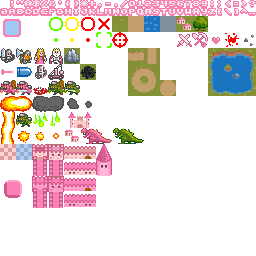
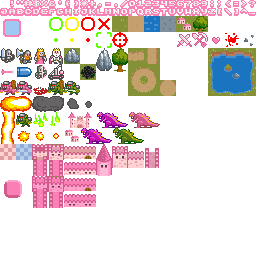
feat: obj layer, tall sprites and storyboxes

Changed region(s): [[0.3125, 0.4375, 0.625, 0.5625], [0.4375, 0.5625, 0.625, 0.6562], [0.375, 0.1875, 0.5, 0.2812]]

diff --git a/src/main.ts b/src/main.ts
@@ -1,7 +1,13 @@
 import "./style.css";
 import { createCanvas, gameLoop, loadImage } from "./engine/gl-util.ts";
 import { SpriteRenderer } from "./engine/SpriteRenderer.ts";
-import { drawPanel, drawSprite2, drawText, drawTextbox } from "./engine/renderUtils.ts";
+import {
+  drawPanel,
+  drawSprite2,
+  drawSprite3,
+  drawText,
+  drawTextbox,
+} from "./engine/renderUtils.ts";
 import { TileMap } from "./engine/tilemap.ts";
 import { Game } from "./game/game.ts";
 import { findSprite, generateLevel } from "./game/levelGenerator.ts";
@@ -16,6 +22,7 @@ import { moveSystem } from "./game/moveSystem.ts";
 import { enemySystem } from "./game/enemySystem.ts";
 import { spriteNames } from "./game/sprites.ts";
 import { AttackCommand, MineCommand, ShootCommand } from "./game/commands.ts";
+import { story } from "./game/story.ts";
 
 const pixelSize = 4;
 const canvas = createCanvas(1920, 1080);
@@ -38,20 +45,19 @@ canvas.addEventListener("click", () => {
 });
 
 const tilemap = new TileMap(30, 17);
-generateLevel(tilemap);
+const objmqp = new TileMap(30, 17);
+generateLevel(tilemap, objmqp);
 game.tilemap = tilemap;
+game.objmap = objmqp;
 
 game.init();
+game.messageBox = story[0];
 
 function update() {
   game.tick++;
   inputSystem(game);
   enemySystem(game);
   moveSystem(game);
-
-  if (game.turn >= 0) {
-    game.messageBox = story[game.turn++];
-  }
 }
 
 function render() {
@@ -60,6 +66,7 @@ function render() {
   for (let y = 0; y < 17; y++) {
     for (let x = 6; x < 30; x++) {
       drawSprite2(renderer, x * 16, y * 16, tilemap.tiles[x + y * tilemap.width]);
+      drawSprite3(renderer, x * 16, y * 16, objmqp.tiles[x + y * tilemap.width]);
     }
   }
 
@@ -273,17 +280,13 @@ function render() {
     drawTextbox(renderer, 16 * 8, 16 * 8, 40, game.messageBox);
   }
 
+  drawSprite3(renderer, 16 * 8, 16 * 4, spriteNames.castle);
+  drawSprite3(renderer, 16 * 9, 16 * 4, spriteNames.castle + 1);
+  drawSprite3(renderer, 16 * 8, 16 * 5, spriteNames.castle + 2);
+  drawSprite3(renderer, 16 * 8, 16 * 6, spriteNames.castle);
+
   //--- end nuke
   renderer.render();
 }
 
 gameLoop(update, render);
-
-const story = [
-  "In the 13th century, a tragedy fell upon the kingdom of Barbenheim. Their beloved princess suddenly dissapeared. Rumors say that she was kidnapped by a dragon and taken to his lair in the mountains.",
-  "Our alchemist needs you to bring him som rare ore from the mines. You will recognize it by its green glow. He will use it to craft a powerful weapon that will help you defeat the dragon.",
-  "A goat farmer has lost a good deal of his heard. He suspects that the dragon has been feeding on his goats. He will reward you if you bring him back some goat meat.",
-  "The dragon has been terrorizing the kingdom for too long. It is time to put an end to this. Find the princess and bring her back to the castle.",
-  "The weapon is ready. It is time to face the dragon.",
-  "Much to our surprise, the princess refuses to return to the castle. She fled to the mountains to get some rest from the constant courtship from the princes of the neighboring kingdoms. She is not in any danger and will return to the castle when she is ready.",
-];

diff --git a/src/game/story.ts b/src/game/story.ts
@@ -1,0 +1,8 @@
+export const story = [
+  "In the 13th century, a tragedy fell upon the kingdom of Barbenheim. Their beloved princess suddenly dissapeared. Rumors say that she was kidnapped by a dragon and taken to his lair in the mountains.",
+  "Our alchemist needs you to bring him som rare ore from the mines. You will recognize it by its green glow. He will use it to craft a powerful weapon that will help you defeat the dragon.",
+  "A goat farmer has lost a good deal of his heard. He suspects that the dragon has been feeding on his goats. He will reward you if you bring him back some goat meat.",
+  "The dragon has been terrorizing the kingdom for too long. It is time to put an end to this. Find the princess and bring her back to the castle.",
+  "The weapon is ready. It is time to face the dragon.",
+  "Much to our surprise, the princess refuses to return to the castle. She fled to the mountains to get some rest from the constant courtship from the princes of the neighboring kingdoms. She is not in any danger and will return to the castle when she is ready.",
+];

diff --git a/src/game/levelGenerator.ts b/src/game/levelGenerator.ts
@@ -51,25 +51,26 @@ function createTerrain(tilemap: TileMap, _rnd: Random) {
   }
 }
 
-export function generateLevel(tilemap: TileMap) {
+export function generateLevel(tilemap: TileMap, objmap: TileMap) {
   const rnd = new Random(2);
   fillMap(tilemap, spriteNames.grass);
+  fillMap(objmap, -1);
   createTerrain(tilemap, rnd);
 
   for (let i = 0; i < 30; i++) {
     const x = rnd.inext(tilemap.width);
     const y = rnd.inext(tilemap.height);
     if (i % 2 === 0) {
-      tilemap.setTile(x | 0, y | 0, spriteNames.mountain);
+      objmap.setTile(x | 0, y | 0, spriteNames.mountain);
     } else {
-      tilemap.setTile(x | 0, y | 0, spriteNames.tree);
+      objmap.setTile(x | 0, y | 0, spriteNames.tree);
     }
   }
 
   for (let i = 0; i < 7; i++) {
     const x = rnd.inext(tilemap.width);
     const y = rnd.inext(tilemap.height);
-    tilemap.setTile(x | 0, y | 0, spriteNames.tower);
+    objmap.setTile(x | 0, y | 0, spriteNames.castle);
   }
 
   createRiver(tilemap, rnd);

diff --git a/src/engine/renderUtils.ts b/src/engine/renderUtils.ts
@@ -127,3 +127,18 @@ export function drawSprite2(
   const sx = sprite % 16;
   renderer.drawSprite(x, y, sx * 16, sy * 16, 16, 16, alpha, angle, scale, 0);
 }
+
+export function drawSprite3(
+  renderer: SpriteRenderer,
+  x: number,
+  y: number,
+  sprite: number,
+  alpha = 1,
+  angle = 0,
+  scale = 1,
+) {
+  if (sprite < 0) return;
+  const sy = (sprite / 16) | 0;
+  const sx = sprite % 16;
+  renderer.drawSprite(x, y - 8, sx * 16, sy * 16, 16, 24, alpha, angle, scale, 0);
+}

diff --git a/src/game/inputSystem.ts b/src/game/inputSystem.ts
@@ -15,7 +15,13 @@ export function getTilePos(pixelPos: Point) {
 }
 
 export function inputSystem(game: Game) {
-  if (game.side === "player") {
+  if (game.messageBox) {
+    game.eventQueue.forEach((event) => {
+      if (event.type === "click") {
+        game.messageBox = null;
+      }
+    });
+  } else if (game.side === "player") {
     game.eventQueue.forEach((event) => {
       if (event.type === "click") {
         const pos: Cursor = event.pos;

diff --git a/src/game/sprites.ts b/src/game/sprites.ts
@@ -8,6 +8,7 @@ export const spriteNames = {
   grass: 16 * 1 + 7,
   road: 16 * 1 + 8,
   water: 16 * 1 + 9,
+  rocky: 16 * 1 + 10,
 
   mine: 16 * 2 + 12,
   attack: 16 * 2 + 11,
@@ -15,9 +16,10 @@ export const spriteNames = {
   blood: 16 * 2 + 14,
   ore: 16 * 2 + 15,
 
-  mountain: 16 * 3 + 4,
-  tree: 16 * 1 + 12,
+  mountain: 16 * 3 + 6,
+  tree: 16 * 3 + 7,
   tower: 16 * 9 + 3,
+  castle: 16 * 9 + 7,
 
   swordsman: 16 * 3,
   archer: 16 * 4 + 2,

diff --git a/src/game/game.ts b/src/game/game.ts
@@ -18,6 +18,7 @@ export class Game {
   prevCursor: Point = { x: 0, y: 0 };
   eventQueue: any[] = [];
   tilemap: TileMap | null = null;
+  objmap: TileMap | null = null;
   side: "player" | "foe" = "player";
   commandPreview: Command[] = [];
   commandQueue: Command[] = [];

diff --git a/src/engine/tilemap.ts b/src/engine/tilemap.ts
@@ -1,5 +1,6 @@
 export class TileMap {
   tiles: number[];
+
   constructor(
     public width: number,
     public height: number,
